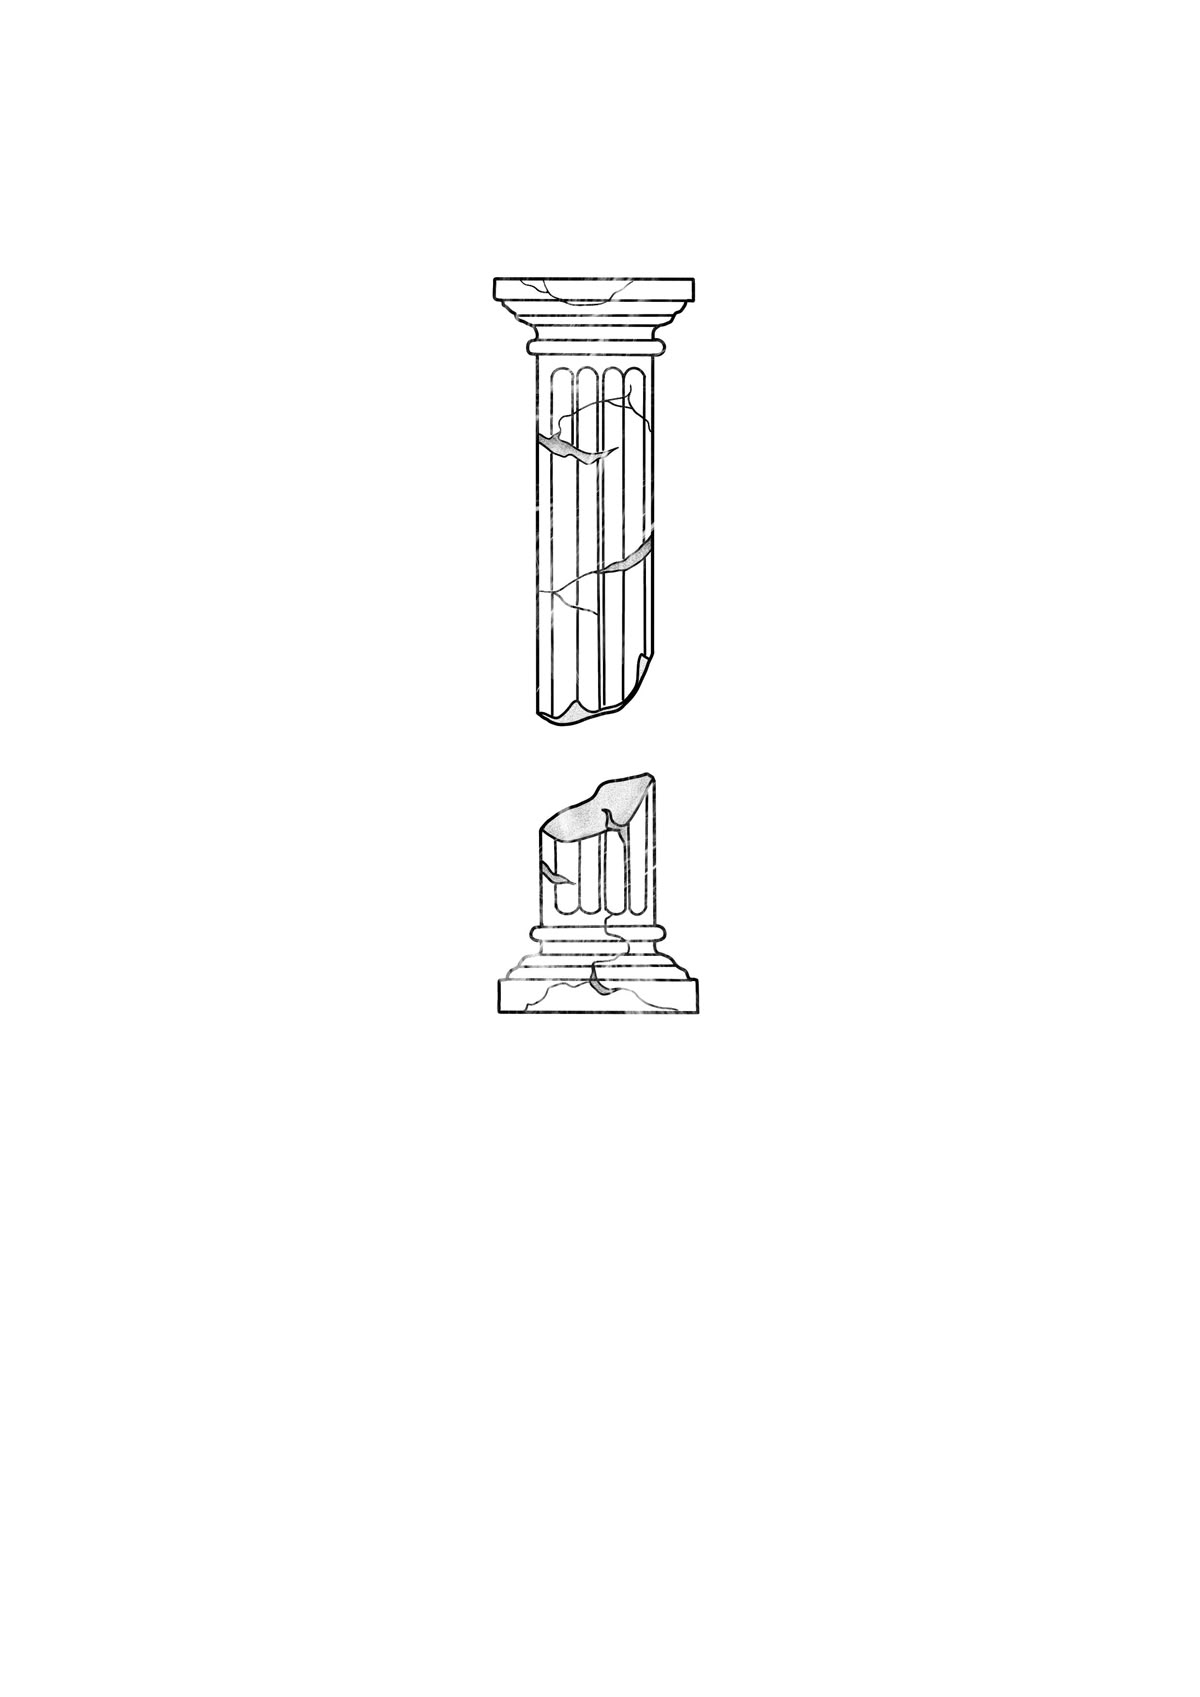
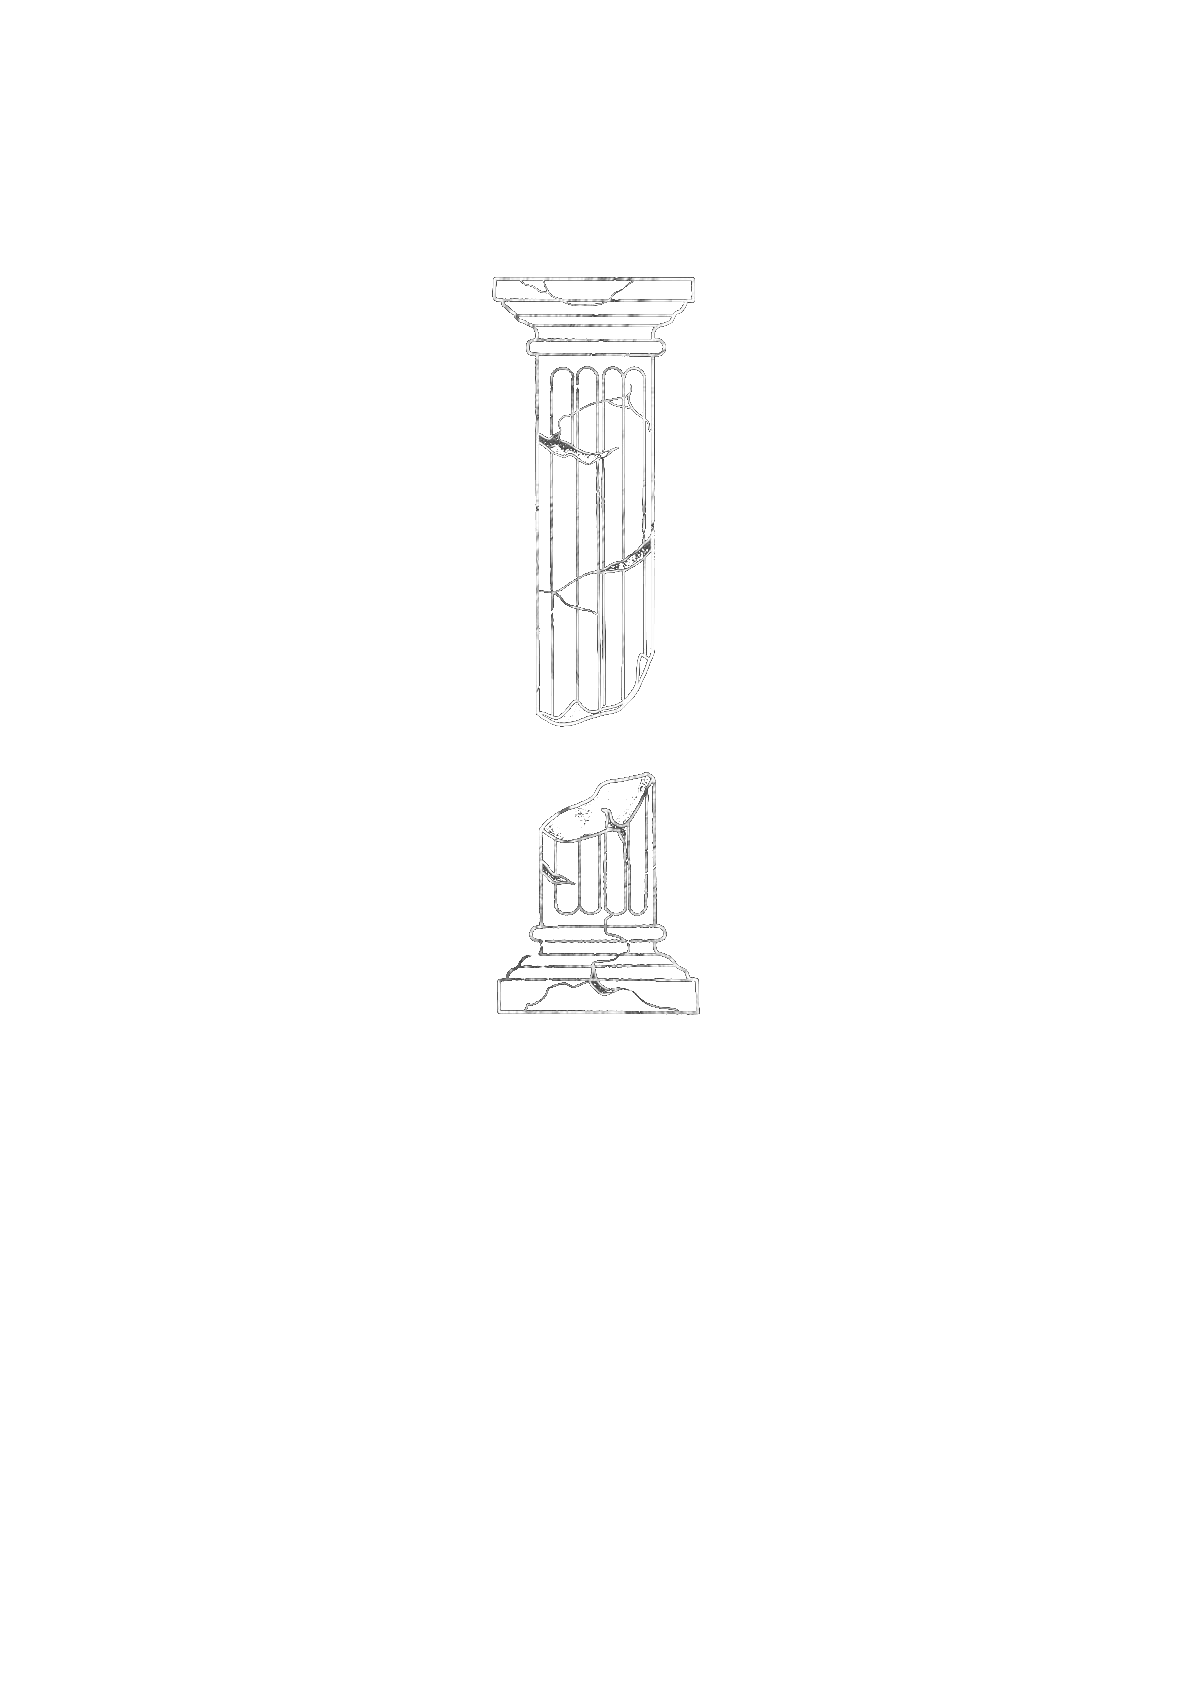
feat(landing): section vision avec globe interactif + corrections
- Ajoute une section "Notre vision" avec globe 3D interactif (cobe),
  marqueurs sur les grandes villes mondiales, glisser pour tourner
- Retire la carte sparkline du dashboard (non retenue)
- Corrige le détourage de l'image stats-column (fond transparent au
  lieu de invert+blend, qui laissait un rectangle visible)
- Remplace la police Inter Tight par Instrument Sans (évite une
  dépendance de build externe après un échec de build Vercel)

Changed region(s): [[0.4008, 0.1562, 0.5858, 0.5934]]

diff --git a/src/app/page.tsx b/src/app/page.tsx
@@ -12,6 +12,7 @@ import {
 } from "lucide-react";
 import gsap from "gsap";
 import { ScrollTrigger } from "gsap/ScrollTrigger";
+import createGlobe from "cobe";
 
 const NAV_LINKS: [string, string][] = [
   ["Fonctionnalités", "#features"],
@@ -142,6 +143,90 @@ function splitWords(el: Element) {
     });
   };
   walk(el);
+}
+
+function VisionGlobe() {
+  const canvasRef = useRef<HTMLCanvasElement>(null);
+  const pointerInteracting = useRef<number | null>(null);
+  const pointerInteractionMovement = useRef(0);
+
+  useEffect(() => {
+    let phi = 0;
+    let width = 0;
+    const onResize = () => {
+      if (canvasRef.current) width = canvasRef.current.offsetWidth;
+    };
+    window.addEventListener("resize", onResize);
+    onResize();
+
+    const globe = createGlobe(canvasRef.current as HTMLCanvasElement, {
+      devicePixelRatio: 2,
+      width: width * 2,
+      height: width * 2,
+      phi: 0,
+      theta: 0.32,
+      dark: 1,
+      diffuse: 1.2,
+      mapSamples: 14000,
+      mapBrightness: 5,
+      baseColor: [0.22, 0.24, 0.18],
+      markerColor: [0.706, 1, 0.224],
+      glowColor: [0.22, 0.26, 0.14],
+      markers: [
+        { location: [48.8566, 2.3522], size: 0.06 },
+        { location: [40.7128, -74.006], size: 0.06 },
+        { location: [35.6762, 139.6503], size: 0.06 },
+        { location: [-23.5505, -46.6333], size: 0.06 },
+        { location: [6.5244, 3.3792], size: 0.06 },
+        { location: [-33.8688, 151.2093], size: 0.06 },
+      ],
+    });
+
+    let rafId: number;
+    const loop = () => {
+      if (pointerInteracting.current === null) phi += 0.0045;
+      globe.update({ phi: phi + pointerInteractionMovement.current, width: width * 2, height: width * 2 });
+      rafId = requestAnimationFrame(loop);
+    };
+    rafId = requestAnimationFrame(loop);
+
+    return () => {
+      cancelAnimationFrame(rafId);
+      globe.destroy();
+      window.removeEventListener("resize", onResize);
+    };
+  }, []);
+
+  return (
+    <canvas
+      ref={canvasRef}
+      onPointerDown={(e) => {
+        pointerInteracting.current = e.clientX - pointerInteractionMovement.current * 200;
+        if (canvasRef.current) canvasRef.current.style.cursor = "grabbing";
+      }}
+      onPointerUp={() => {
+        pointerInteracting.current = null;
+        if (canvasRef.current) canvasRef.current.style.cursor = "grab";
+      }}
+      onPointerOut={() => {
+        pointerInteracting.current = null;
+        if (canvasRef.current) canvasRef.current.style.cursor = "grab";
+      }}
+      onMouseMove={(e) => {
+        if (pointerInteracting.current !== null) {
+          const delta = e.clientX - pointerInteracting.current;
+          pointerInteractionMovement.current = delta / 200;
+        }
+      }}
+      onTouchMove={(e) => {
+        if (pointerInteracting.current !== null && e.touches[0]) {
+          const delta = e.touches[0].clientX - pointerInteracting.current;
+          pointerInteractionMovement.current = delta / 200;
+        }
+      }}
+      style={{ width: "100%", height: "100%", cursor: "grab", contain: "layout paint size" }}
+    />
+  );
 }
 
 export default function Home() {
@@ -383,7 +468,7 @@ export default function Home() {
       />
 
       {/* NAV */}
-      <nav className="nav" style={{ fontFamily: "var(--font-inter-tight)" }}>
+      <nav className="nav" style={{ fontFamily: "var(--font-instrument-sans)" }}>
         <Link href="#hero" className="brand">Shiftly</Link>
         <div className="nav-links">
           {NAV_LINKS.map(([label, href]) => (
@@ -396,7 +481,7 @@ export default function Home() {
       </nav>
 
       {/* HERO */}
-      <section id="hero" className="hero" style={{ fontFamily: "var(--font-inter-tight)" }}>
+      <section id="hero" className="hero" style={{ fontFamily: "var(--font-instrument-sans)" }}>
         <div id="heroVideoBg" className="hero-video-bg">
           <video autoPlay loop muted playsInline>
             <source src="/hero-painting.webm" type="video/webm" />
@@ -765,6 +850,31 @@ export default function Home() {
         </motion.div>
       </section>
 
+      {/* NOTRE VISION */}
+      <section className="py-24 sm:py-36 px-4 sm:px-6 max-w-7xl mx-auto">
+        <motion.div
+          initial={{ opacity: 0, y: 16 }} whileInView={{ opacity: 1, y: 0 }} transition={{ duration: 0.6 }} viewport={{ once: true }}
+          className="mb-14 text-center"
+        >
+          <p className="font-mono text-xs text-[#B4FF39] mb-4">[ notre vision ]</p>
+          <h2 className="text-4xl sm:text-5xl lg:text-6xl font-bold tracking-tight bg-gradient-to-b from-white to-white/40 bg-clip-text text-transparent">
+            Un problème mondial,<br />pas seulement régional.
+          </h2>
+          <p className="mt-6 text-gray-400 text-base sm:text-lg max-w-xl mx-auto leading-relaxed">
+            Le planning sur tableur, les erreurs d&apos;horaires, les équipes mal coordonnées — ce n&apos;est pas
+            qu&apos;un problème français. Partout, de petites équipes perdent du temps sur les mêmes outils
+            dépassés. Notre ambition : que Shiftly règle ce problème bien au-delà de nos frontières.
+          </p>
+        </motion.div>
+
+        <motion.div
+          initial={{ opacity: 0, scale: 0.92 }} whileInView={{ opacity: 1, scale: 1 }} transition={{ duration: 0.8 }} viewport={{ once: true }}
+          className="relative mx-auto aspect-square w-full max-w-[460px]"
+        >
+          <VisionGlobe />
+        </motion.div>
+      </section>
+
       {/* CTA FINAL */}
       <section id="security" className="py-24 sm:py-36 px-4 sm:px-6 relative overflow-hidden">
         <div className="absolute inset-0 bg-[radial-gradient(ellipse_at_50%_50%,rgba(59,130,246,0.08),transparent_65%)] pointer-events-none" />
@@ -845,7 +955,7 @@ export default function Home() {
         .hero-video-overlay { position: absolute; inset: 0; background: rgba(6,6,6,.78); }
         .hero-glass { position: absolute; inset: 0; z-index: 1; pointer-events: none; }
         .glass { position: absolute; border-radius: 12px; background: rgba(255,255,255,.08); border: 1px solid rgba(255,255,255,.18); backdrop-filter: blur(10px) saturate(1.2); box-shadow: inset 0 1px 0 rgba(255,255,255,.25); opacity: 0; }
-        h1#heroTitle { position: relative; z-index: 3; font: 500 clamp(32px,6vw,72px)/1.06 var(--font-inter-tight); letter-spacing: -.03em; max-width: 900px; }
+        h1#heroTitle { position: relative; z-index: 3; font: 500 clamp(32px,6vw,72px)/1.06 var(--font-instrument-sans); letter-spacing: -.03em; max-width: 900px; }
         h1#heroTitle em { color: #B4FF39; font-style: italic; font-weight: 600; }
         .cap { position: relative; z-index: 3; margin-top: 22px; font-size: clamp(14px,1.6vw,18px); line-height: 1.4; color: rgba(255,255,255,.55); max-width: 480px; }
         .hero-form { position: relative; z-index: 3; margin-top: 30px; display: inline-flex; align-items: center; gap: 6px; padding: 6px; border-radius: 999px; background: rgba(255,255,255,.06); border: 1px solid rgba(255,255,255,.12); }
@@ -864,7 +974,7 @@ export default function Home() {
         .sq-field { position: absolute; inset: 0 0 auto 0; height: 42%; z-index: 0; pointer-events: none; -webkit-mask-image: linear-gradient(#000, transparent); mask-image: linear-gradient(#000, transparent); }
         .grid-sq { position: absolute; border: 1px solid rgba(255,255,255,.06); border-radius: 10px; opacity: 0; pointer-events: none; }
         .stats-glow { position: absolute; left: 50%; top: 40%; translate: -50% -50%; width: 420px; height: 420px; border-radius: 999px; background: radial-gradient(closest-side, rgba(180,255,57,.22), transparent); filter: blur(30px); opacity: .15; transform: scale(.6); pointer-events: none; z-index: 0; }
-        .stats-rise { position: absolute; left: 50%; bottom: -6%; transform: translateX(-50%) translateY(70%); width: min(260px,38vw); filter: invert(1) opacity(.5); pointer-events: none; z-index: 1; }
+        .stats-rise { position: absolute; left: 50%; bottom: -6%; transform: translateX(-50%) translateY(70%); width: min(260px,38vw); opacity: .55; pointer-events: none; z-index: 1; }
         .stats-inner { position: relative; z-index: 2; display: flex; flex-direction: column; align-items: center; gap: 22px; max-width: 980px; margin: 0 auto; }
         .cards { position: relative; z-index: 2; display: grid; grid-template-columns: repeat(4,1fr); gap: 12px; width: 100%; margin-top: 8px; }
         .card { position: relative; height: 140px; padding: 18px 20px; background: #B4FF39; display: flex; flex-direction: column; justify-content: space-between; clip-path: polygon(16px 0, calc(100% - 16px) 0, 100% 16px, 100% calc(100% - 16px), calc(100% - 16px) 100%, 16px 100%, 0 calc(100% - 16px), 0 16px); }

diff --git a/src/app/(app)/dashboard/page.tsx b/src/app/(app)/dashboard/page.tsx
@@ -223,35 +223,6 @@ export default function DashboardPage() {
   const maxCount = Math.max(1, ...weekCounts);
   const todayIdx = (new Date().getDay() + 6) % 7;
 
-  // Tendance des demandes sur 7 jours glissants (style sparkline)
-  const trendValues = Array.from({ length: 7 }, (_, i) => {
-    const day = new Date();
-    day.setHours(0, 0, 0, 0);
-    day.setDate(day.getDate() - (6 - i));
-    const next = new Date(day);
-    next.setDate(day.getDate() + 1);
-    return data.requests.filter(r => { const d = new Date(r.createdAt); return d >= day && d < next; }).length;
-  });
-  const trendMax = Math.max(1, ...trendValues);
-  const trendAvg = trendValues.reduce((a, b) => a + b, 0) / trendValues.length;
-  const trendCurrent = trendValues[trendValues.length - 1];
-
-  const TREND_W = 280;
-  const TREND_H = 72;
-  const TREND_PAD = 6;
-  const trendPoints: [number, number][] = trendValues.map((v, i) => [
-    TREND_PAD + (i * (TREND_W - TREND_PAD * 2)) / (trendValues.length - 1),
-    TREND_H - TREND_PAD - (v / trendMax) * (TREND_H - TREND_PAD * 2),
-  ]);
-  const trendLinePath = trendPoints.reduce((d, [x, y], i) => {
-    if (i === 0) return `M${x},${y}`;
-    const [x0, y0] = trendPoints[i - 1];
-    const cx = (x0 + x) / 2;
-    return `${d} C${cx},${y0} ${cx},${y} ${x},${y}`;
-  }, "");
-  const trendAreaPath = `${trendLinePath} L${trendPoints[trendPoints.length - 1][0]},${TREND_H} L${trendPoints[0][0]},${TREND_H} Z`;
-  const trendLast = trendPoints[trendPoints.length - 1];
-
   return (
     <div className="mx-auto max-w-7xl space-y-6">
 
@@ -394,54 +365,6 @@ export default function DashboardPage() {
         </aside>
 
       </div>
-
-      {/* Tendance des demandes — sparkline */}
-      <section className="rounded-2xl bg-white p-6 sm:p-7 shadow-sm dark:bg-white/5 dark:shadow-none">
-        <div className="flex items-center justify-between mb-6">
-          <div>
-            <h2 className="text-sm font-bold text-gray-900 dark:text-white">Activité des demandes</h2>
-            <p className="text-xs text-gray-400 mt-0.5 dark:text-white/30">7 derniers jours</p>
-          </div>
-          <div className="text-right">
-            <div className="text-2xl font-bold tracking-tight text-gray-900 dark:text-white">{trendCurrent}</div>
-            <p className="text-[11px] text-gray-400 dark:text-white/30">aujourd&apos;hui</p>
-          </div>
-        </div>
-
-        <svg viewBox={`0 0 ${TREND_W} ${TREND_H}`} className="w-full h-20" preserveAspectRatio="none">
-          <defs>
-            <linearGradient id="trendFill" x1="0" y1="0" x2="0" y2="1">
-              <stop offset="0%" stopColor="#B4FF39" stopOpacity="0.28" />
-              <stop offset="100%" stopColor="#B4FF39" stopOpacity="0" />
-            </linearGradient>
-          </defs>
-          <path d={trendAreaPath} fill="url(#trendFill)" stroke="none" />
-          <path d={trendLinePath} fill="none" stroke="#B4FF39" strokeWidth="2" strokeLinecap="round" className="dash-trend-line" />
-          <circle cx={trendLast[0]} cy={trendLast[1]} r="3.5" fill="#B4FF39" className="dash-trend-dot" />
-        </svg>
-
-        <div className="mt-5 grid grid-cols-3 gap-3 border-t border-gray-100 pt-4 dark:border-white/10">
-          <div>
-            <p className="text-[10px] uppercase font-semibold text-gray-400 dark:text-white/30">Actuel</p>
-            <p className="text-sm font-bold text-gray-900 dark:text-white">{trendCurrent}</p>
-          </div>
-          <div>
-            <p className="text-[10px] uppercase font-semibold text-gray-400 dark:text-white/30">Moyenne</p>
-            <p className="text-sm font-bold text-gray-900 dark:text-white">{trendAvg.toFixed(1)}</p>
-          </div>
-          <div>
-            <p className="text-[10px] uppercase font-semibold text-gray-400 dark:text-white/30">Max</p>
-            <p className="text-sm font-bold text-gray-900 dark:text-white">{trendMax}</p>
-          </div>
-        </div>
-
-        <style>{`
-          .dash-trend-line { stroke-dasharray: 500; stroke-dashoffset: 500; animation: dashTrendDraw 1.1s ease forwards; }
-          @keyframes dashTrendDraw { to { stroke-dashoffset: 0; } }
-          .dash-trend-dot { animation: dashTrendPulse 2s ease-in-out infinite; transform-origin: center; transform-box: fill-box; }
-          @keyframes dashTrendPulse { 0%, 100% { opacity: 1; transform: scale(1); } 50% { opacity: .5; transform: scale(1.6); } }
-        `}</style>
-      </section>
 
       {/* Upcoming planning */}
       <section className="rounded-2xl bg-white p-6 sm:p-7 shadow-sm dark:bg-white/5 dark:shadow-none">

diff --git a/src/app/layout.tsx b/src/app/layout.tsx
@@ -1,5 +1,5 @@
 import type { Metadata, Viewport } from "next";
-import { Geist, Geist_Mono, Instrument_Serif, Instrument_Sans, Silkscreen, Inter_Tight } from "next/font/google";
+import { Geist, Geist_Mono, Instrument_Serif, Instrument_Sans, Silkscreen } from "next/font/google";
 import "./globals.css";
 
 const geistSans = Geist({
@@ -29,13 +29,6 @@ const silkscreen = Silkscreen({
   variable: "--font-silkscreen",
   subsets: ["latin"],
   weight: ["400", "700"],
-});
-
-const interTight = Inter_Tight({
-  variable: "--font-inter-tight",
-  subsets: ["latin"],
-  weight: ["400", "500", "600", "700"],
-  style: ["normal", "italic"],
 });
 
 const SITE_URL = "https://shiftly.site";
@@ -107,7 +100,7 @@ export default function RootLayout({
         {/* Apply saved theme before first paint to prevent flash */}
         <script dangerouslySetInnerHTML={{ __html: `(function(){try{var t=localStorage.getItem('shiftly_theme');if(t==='dark')document.documentElement.setAttribute('data-theme','dark');}catch(e){}})()` }} />
       </head>
-      <body className={`${geistSans.variable} ${geistMono.variable} ${instrumentSerif.variable} ${instrumentSans.variable} ${silkscreen.variable} ${interTight.variable} antialiased`}>
+      <body className={`${geistSans.variable} ${geistMono.variable} ${instrumentSerif.variable} ${instrumentSans.variable} ${silkscreen.variable} antialiased`}>
         {children}
       </body>
     </html>
